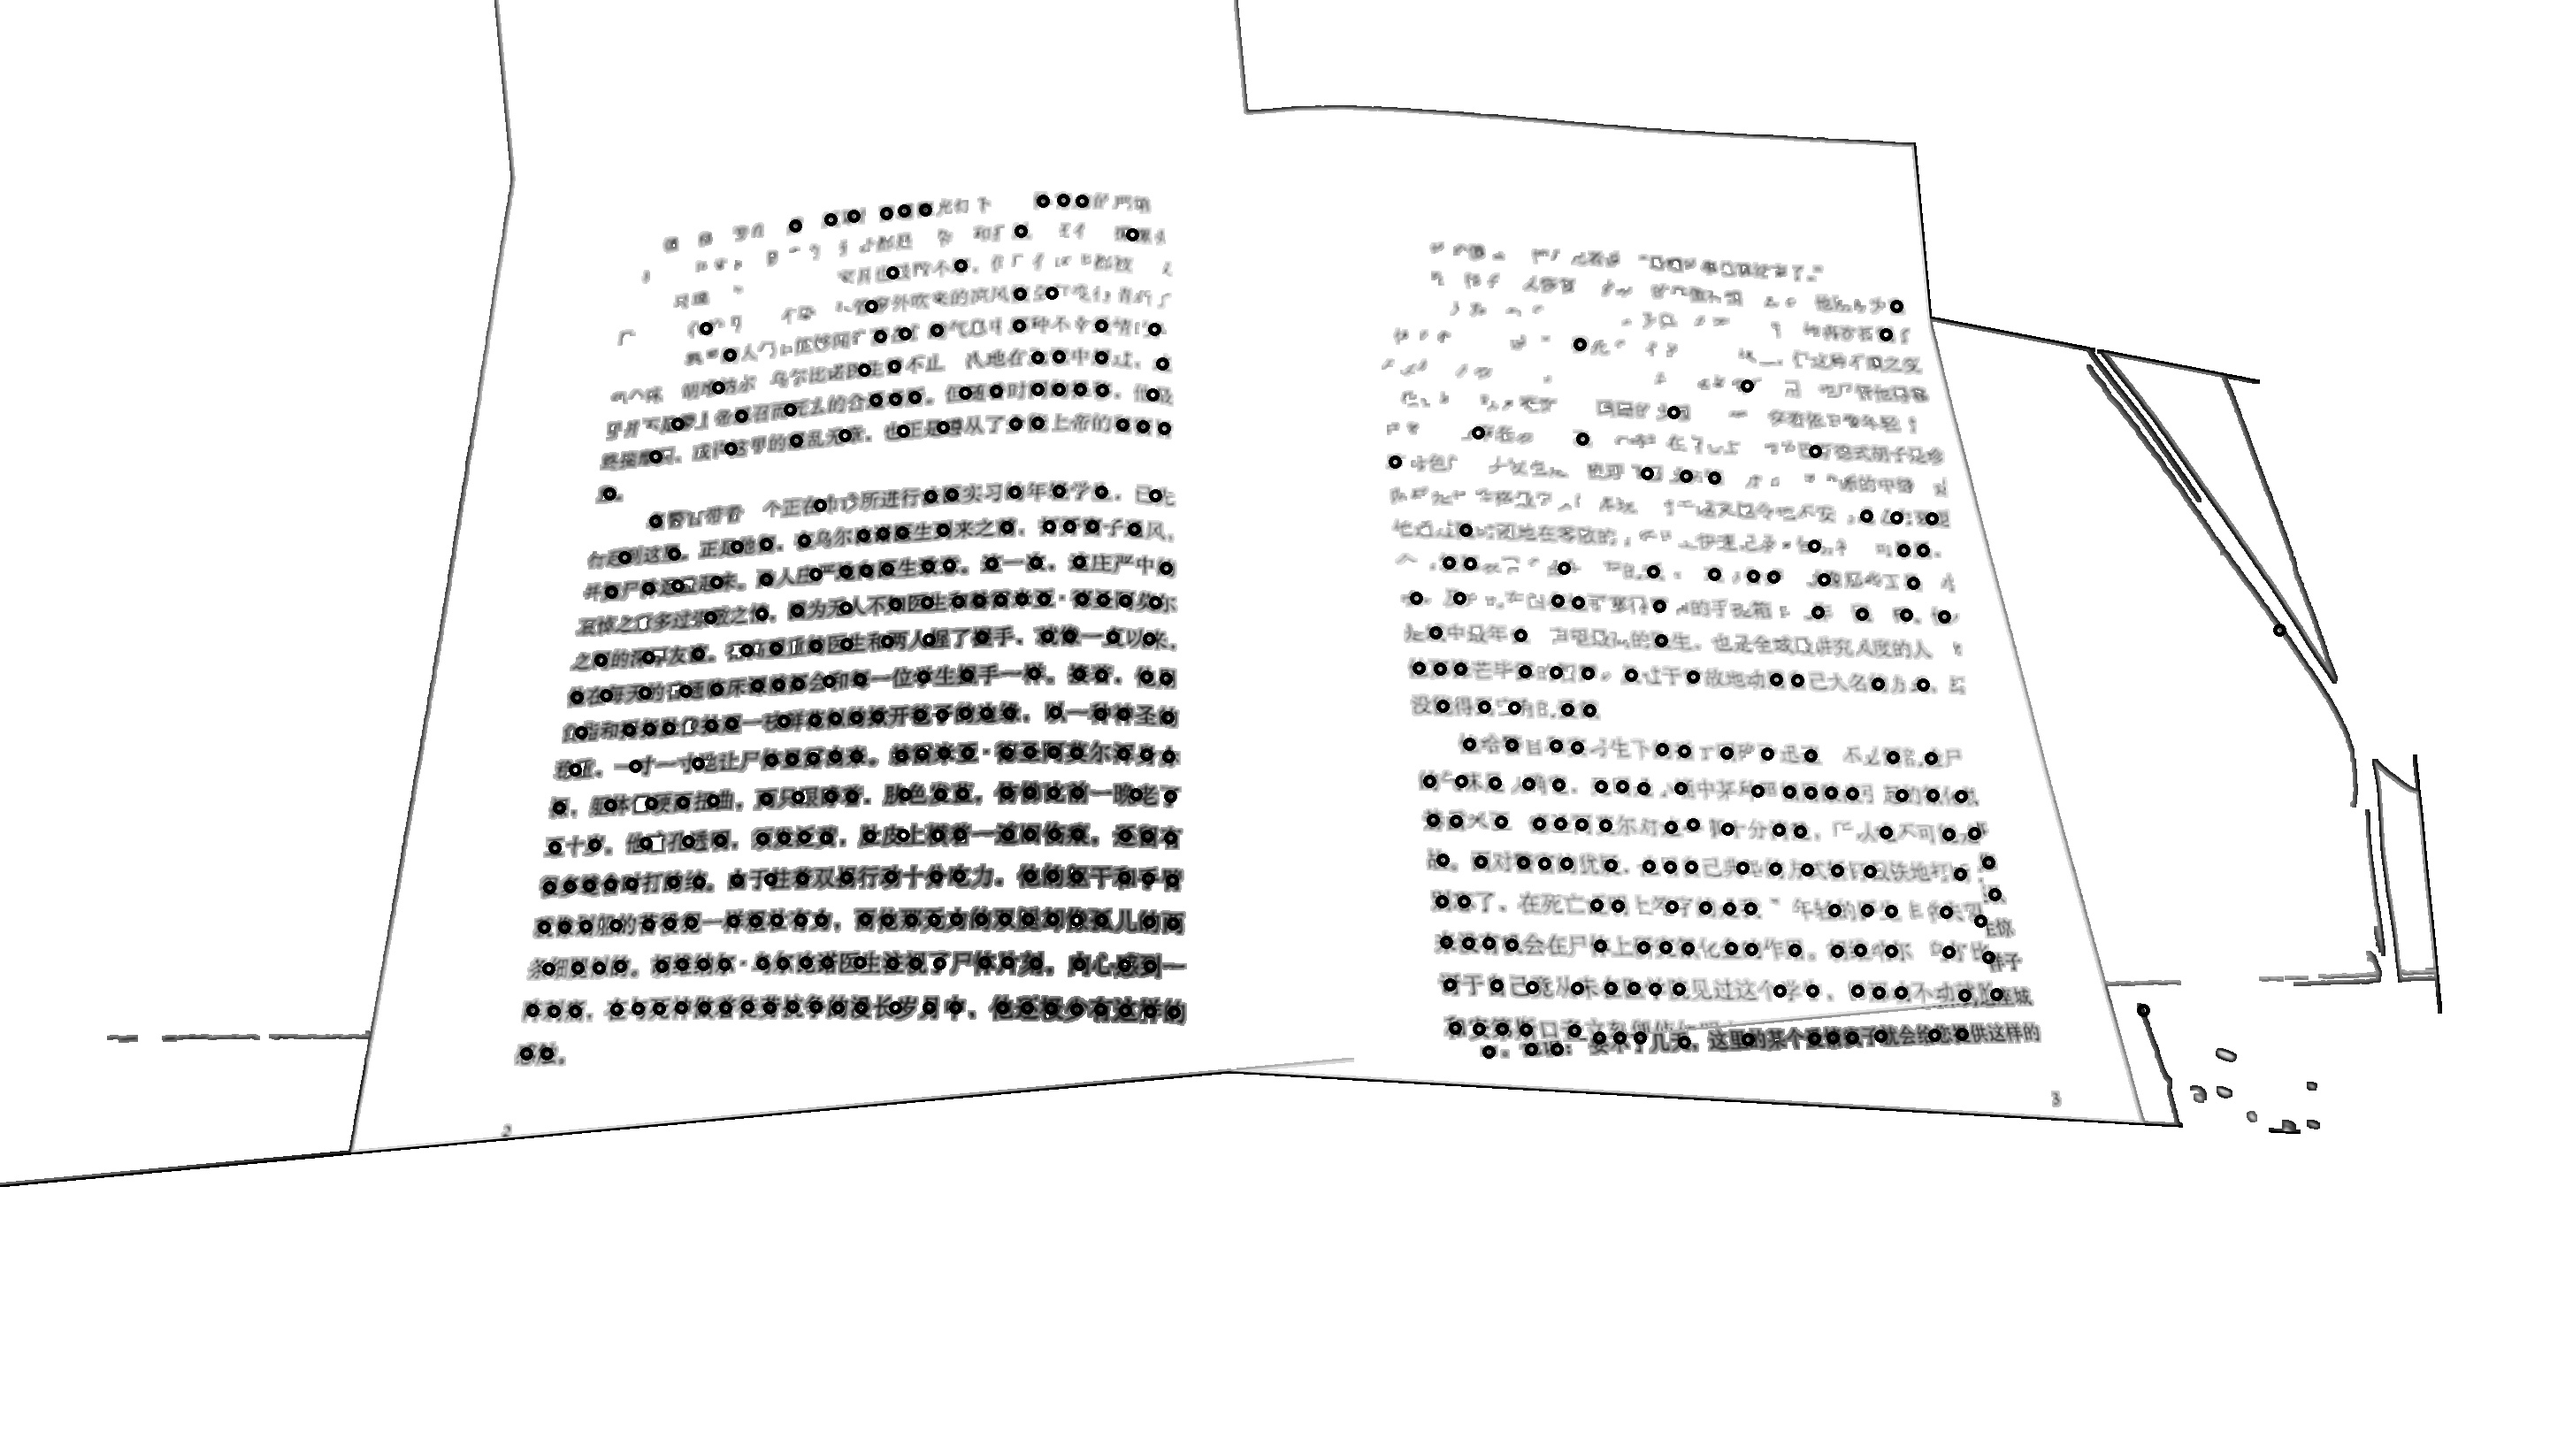
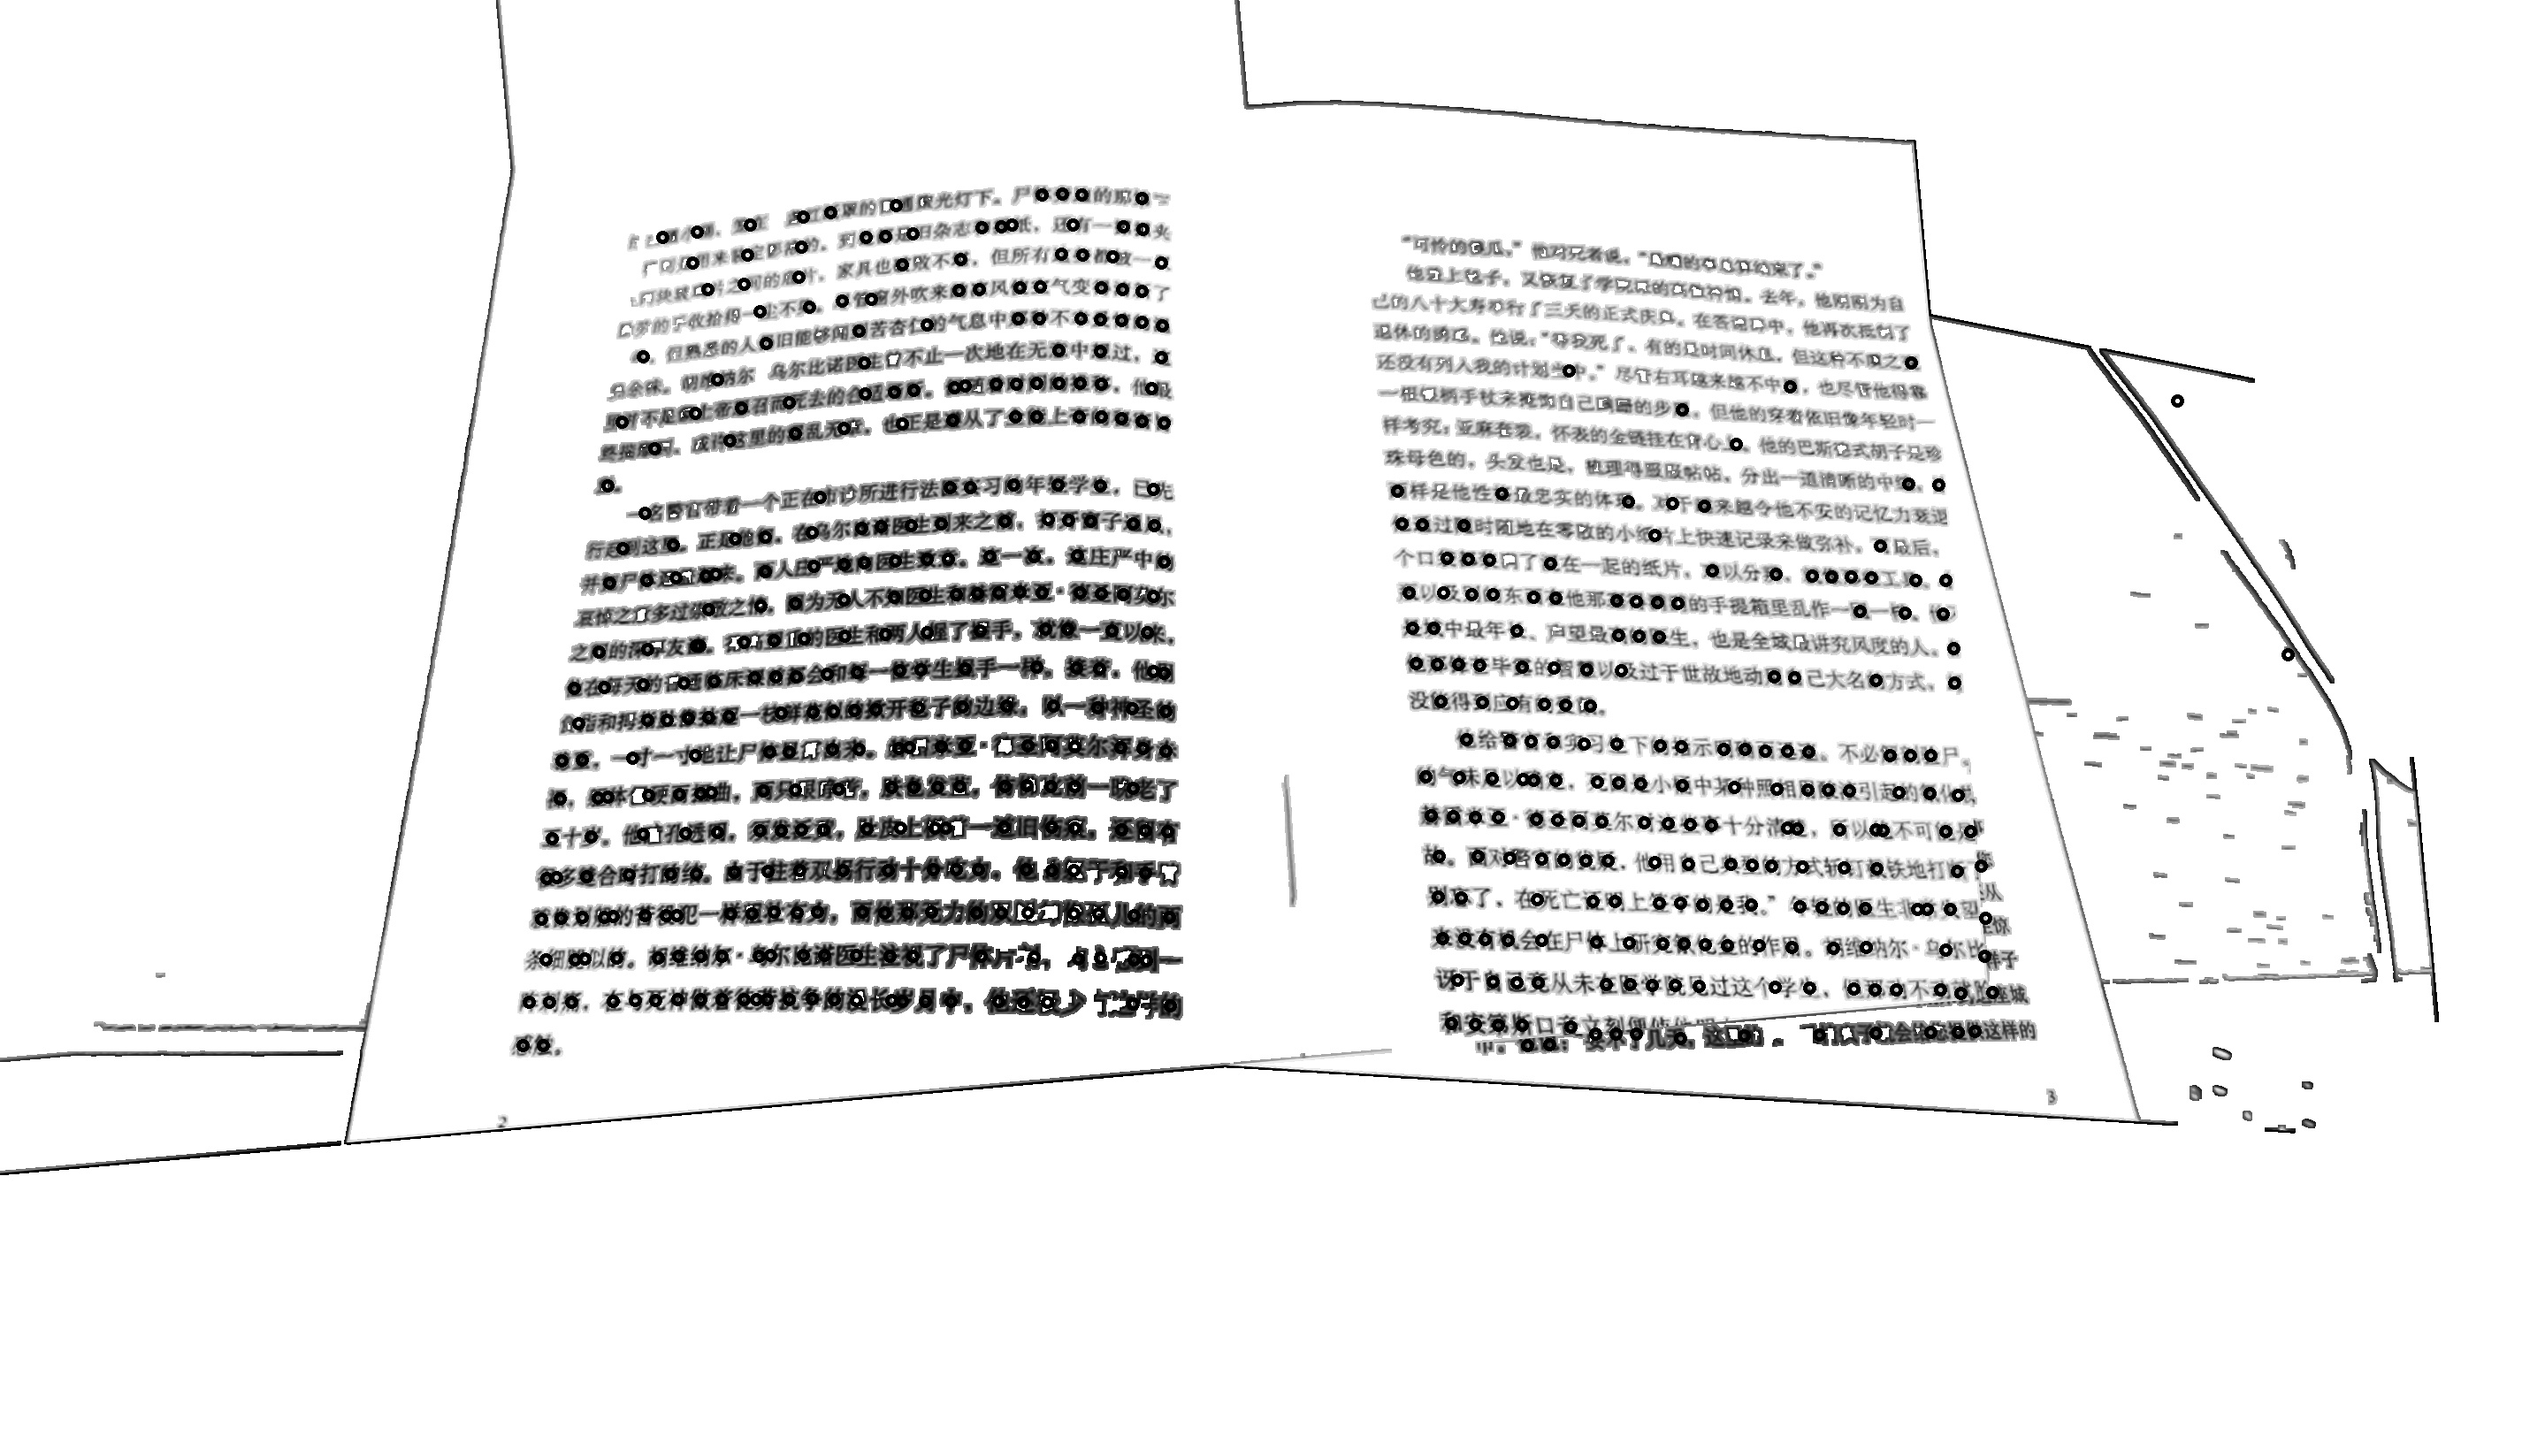
add hough_lines_point_set

diff --git a/find_the_text.py b/find_the_text.py
@@ -5,13 +5,78 @@ import numpy as np
 from remove_the_background import remove_the_bg
 
 
-def non_max_suppress(boxes, threshold=0.2):
+def find_local_maximums(num_rho, num_angle, threshold, accum):
+    sort_buf = []
+    for r in range(num_rho):
+        for n in range(num_angle):
+            base = (n + 1) * (num_rho + 2) + r + 1
+            if accum[base] > threshold \
+                    and accum[base] > accum[base - 1] \
+                    and accum[base] >= accum[base + 1] \
+                    and accum[base] > accum[base - num_rho - 2] \
+                    and accum[base] >= accum[base + num_rho + 2]:
+                sort_buf.append(base)
+    return np.array(sort_buf).astype(np.int)
+
+
+def create_trig_table(num_angle, min_theta, theta_step, i_rho):
+    ang = float(min_theta)
+    tab_sin = np.zeros(num_angle)
+    tab_cos = np.zeros(num_angle)
+    for i in range(num_angle):
+        ang += float(theta_step)
+        tab_sin[i] = float(np.sin(ang) * i_rho)
+        tab_cos[i] = float(np.cos(ang) * i_rho)
+    return tab_sin, tab_cos
+
+
+def hough_lines_point_set(pts, lines_max, threshold, min_rho, max_rho, rho_step, min_theta, max_theta, theta_step):
+    # init
+    i_rho = float(1 / rho_step)
+    i_rho_min = float(min_rho * i_rho)
+    num_angle = int(np.around((max_theta - min_theta) / theta_step))
+    num_rho = int(np.around((max_rho - min_rho + 1) / rho_step))
+    accum = np.zeros((num_angle + 10) * (num_rho + 10)).astype(np.int)
+    # in opencv, +2, but it will throw IndexError,
+    # it doesn't affect the final result
+
+    # create sin and cos table
+    tab_sin, tab_cos = create_trig_table(num_angle, min_theta, theta_step, i_rho)
+
+    # stage 1, fill accumulator
+    for i in range(len(pts)):
+        for n in range(num_angle):
+            r = int(np.around(pts[i, 1] * tab_cos[n] + pts[i, 0] * tab_sin[n] - i_rho_min))
+            accum[(n + 1) * (num_rho + 2) + r + 1] += 1
+
+    # stage 2, find local maximums
+    sort_buf = find_local_maximums(num_rho, num_angle, threshold, accum)
+
+    # stage 3, sort the detected lines by accumulator value
+    z = zip(accum, sort_buf)
+    z = sorted(z, reverse=True)
+    _, sort_buf = zip(*z)
+
+    # stage 4, store the lines to the output buffer
+    lines_max = np.min([lines_max, len(sort_buf)])
+    scale = 1.0 / (num_rho + 2)
+    line = {'length_line': [], 'angle': []}
+    for i in range(lines_max):
+        idx = sort_buf[i]
+        n = np.floor(idx * scale) - 1
+        r = idx - (n + 1) * (num_rho + 2) - 1
+        line['length_line'].append(int(min_rho + r * rho_step))
+        line['angle'].append(min_theta + n * theta_step)
+    return line
+
+
+def non_max_suppress(boxes, threshold=0.8):
     if len(boxes) == 0:
         return boxes
     else:
         boxes = boxes.astype("float32")
         x1, y1, x2, y2 = boxes[:, 0], boxes[:, 1], boxes[:, 2], boxes[:, 3]
-        boxes_area = (x2 - x1 + 1)*(y2 - y1 + 1)
+        boxes_area = (x2 - x1 + 1) * (y2 - y1 + 1)
         # 排序
         idxs = np.argsort(y2)
         pick = []
@@ -49,13 +114,11 @@ def detect(img_gray, norm=1.2):
     # 检测
     regions, _ = mser.detectRegions(img_gray)
 
-    # 得到文本区域
-    hulls = [cv2.convexHull(p.reshape(-1, 1, 2)) for p in regions]
-
     # 得到当前所有boxes
+    hulls = [cv2.convexHull(p.reshape(-1, 1, 2)) for p in regions]
     boxes = []
-    for c in hulls:
-        x, y, w, h = cv2.boundingRect(c)
+    for hull in hulls:
+        x, y, w, h = cv2.boundingRect(hull)
         if w < norm * h and h < norm * w:
             boxes.append([x, y, x + w, y + h])
     # print(len(boxes))
@@ -67,10 +130,16 @@ def detect(img_gray, norm=1.2):
     pts = np.zeros((len(boxes), 2))
     pts[:, 0] = (boxes[:, 0] + boxes[:, 2]) / 2
     pts[:, 1] = (boxes[:, 1] + boxes[:, 3]) / 2
-    pts = pts.astype(np.int)
-    for i in range(len(pts)):
-        cv2.circle(img_gray, (pts[i, 0], pts[i, 1]), 5, (0, 255, 0), 3)
+    # img_new = np.ones_like(img_gray) * 255
+    for pt in pts:
+        cv2.circle(img_gray, tuple(pt.astype(np.int).tolist()), 5, (0, 255, 0), 3)
 
+    # 利用霍夫变换查找点集中的直线
+    lines = hough_lines_point_set(pts=pts, lines_max=10, threshold=1,
+                                  min_rho=0.0, max_rho=360.0, rho_step=1,
+                                  min_theta=0.0, max_theta=np.pi / 2,
+                                  theta_step=np.pi / 180)
+    print(lines)
     return img_gray
 
 

diff --git a/main.py b/main.py
@@ -21,17 +21,17 @@ def main():
     # 将两个图片拼接在一起
     print("----matching----")
     img_match = get_match_img(img_left, img_right, number)
-    cv2.imwrite("./match_result/" + str(number) + ".jpg", img_match)
+    # cv2.imwrite("./match_result/" + str(number) + ".jpg", img_match)
 
     # 利用直线检测进行文字方向矫正，使得文字正向
     print("----rotating----")
     img_rotated = rotate_img(img_match)
-    cv2.imwrite("./rotated_result/" + str(number) + ".jpg", img_rotated)
+    # cv2.imwrite("./rotated_result/" + str(number) + ".jpg", img_rotated)
 
     # 利用MSER检测找到文字大致范围并框选出来
     print("----finding the text----")
-    text_area = detect(img_rotated)
-    cv2.imwrite("./find_text_result/" + str(number) + ".jpg", text_area)
+    text_area = detect(img_rotated, norm=2)
+    # cv2.imwrite("./find_text_result/" + str(number) + ".jpg", text_area)
 
     # 开始进行OCR
     # print("----ocr---")

diff --git a/README.md b/README.md
@@ -49,13 +49,8 @@ you can see test samples in ['rotated_result'](https://github.com/hhhfccz/Docume
 
 ### Framing text areas in images
 
-my idea is to use **MSER and NMS**, but you can see the result like:
-
-![find_text_result2.jpg](https://raw.sevencdn.com/hhhfccz/Document-reconstruction/main/find_text_result/2.jpg)
-
-It does not perform as well as expected.
-
-So, i think Deep learning methods are the only ones that are truly appropriate for the task, like [CTPN](https://github.com/tianzhi0549/CTPN)
+my idea is to use **MSER and NMS**
+I made all text detectable by adding CLAHE
 
 # How to use
 
